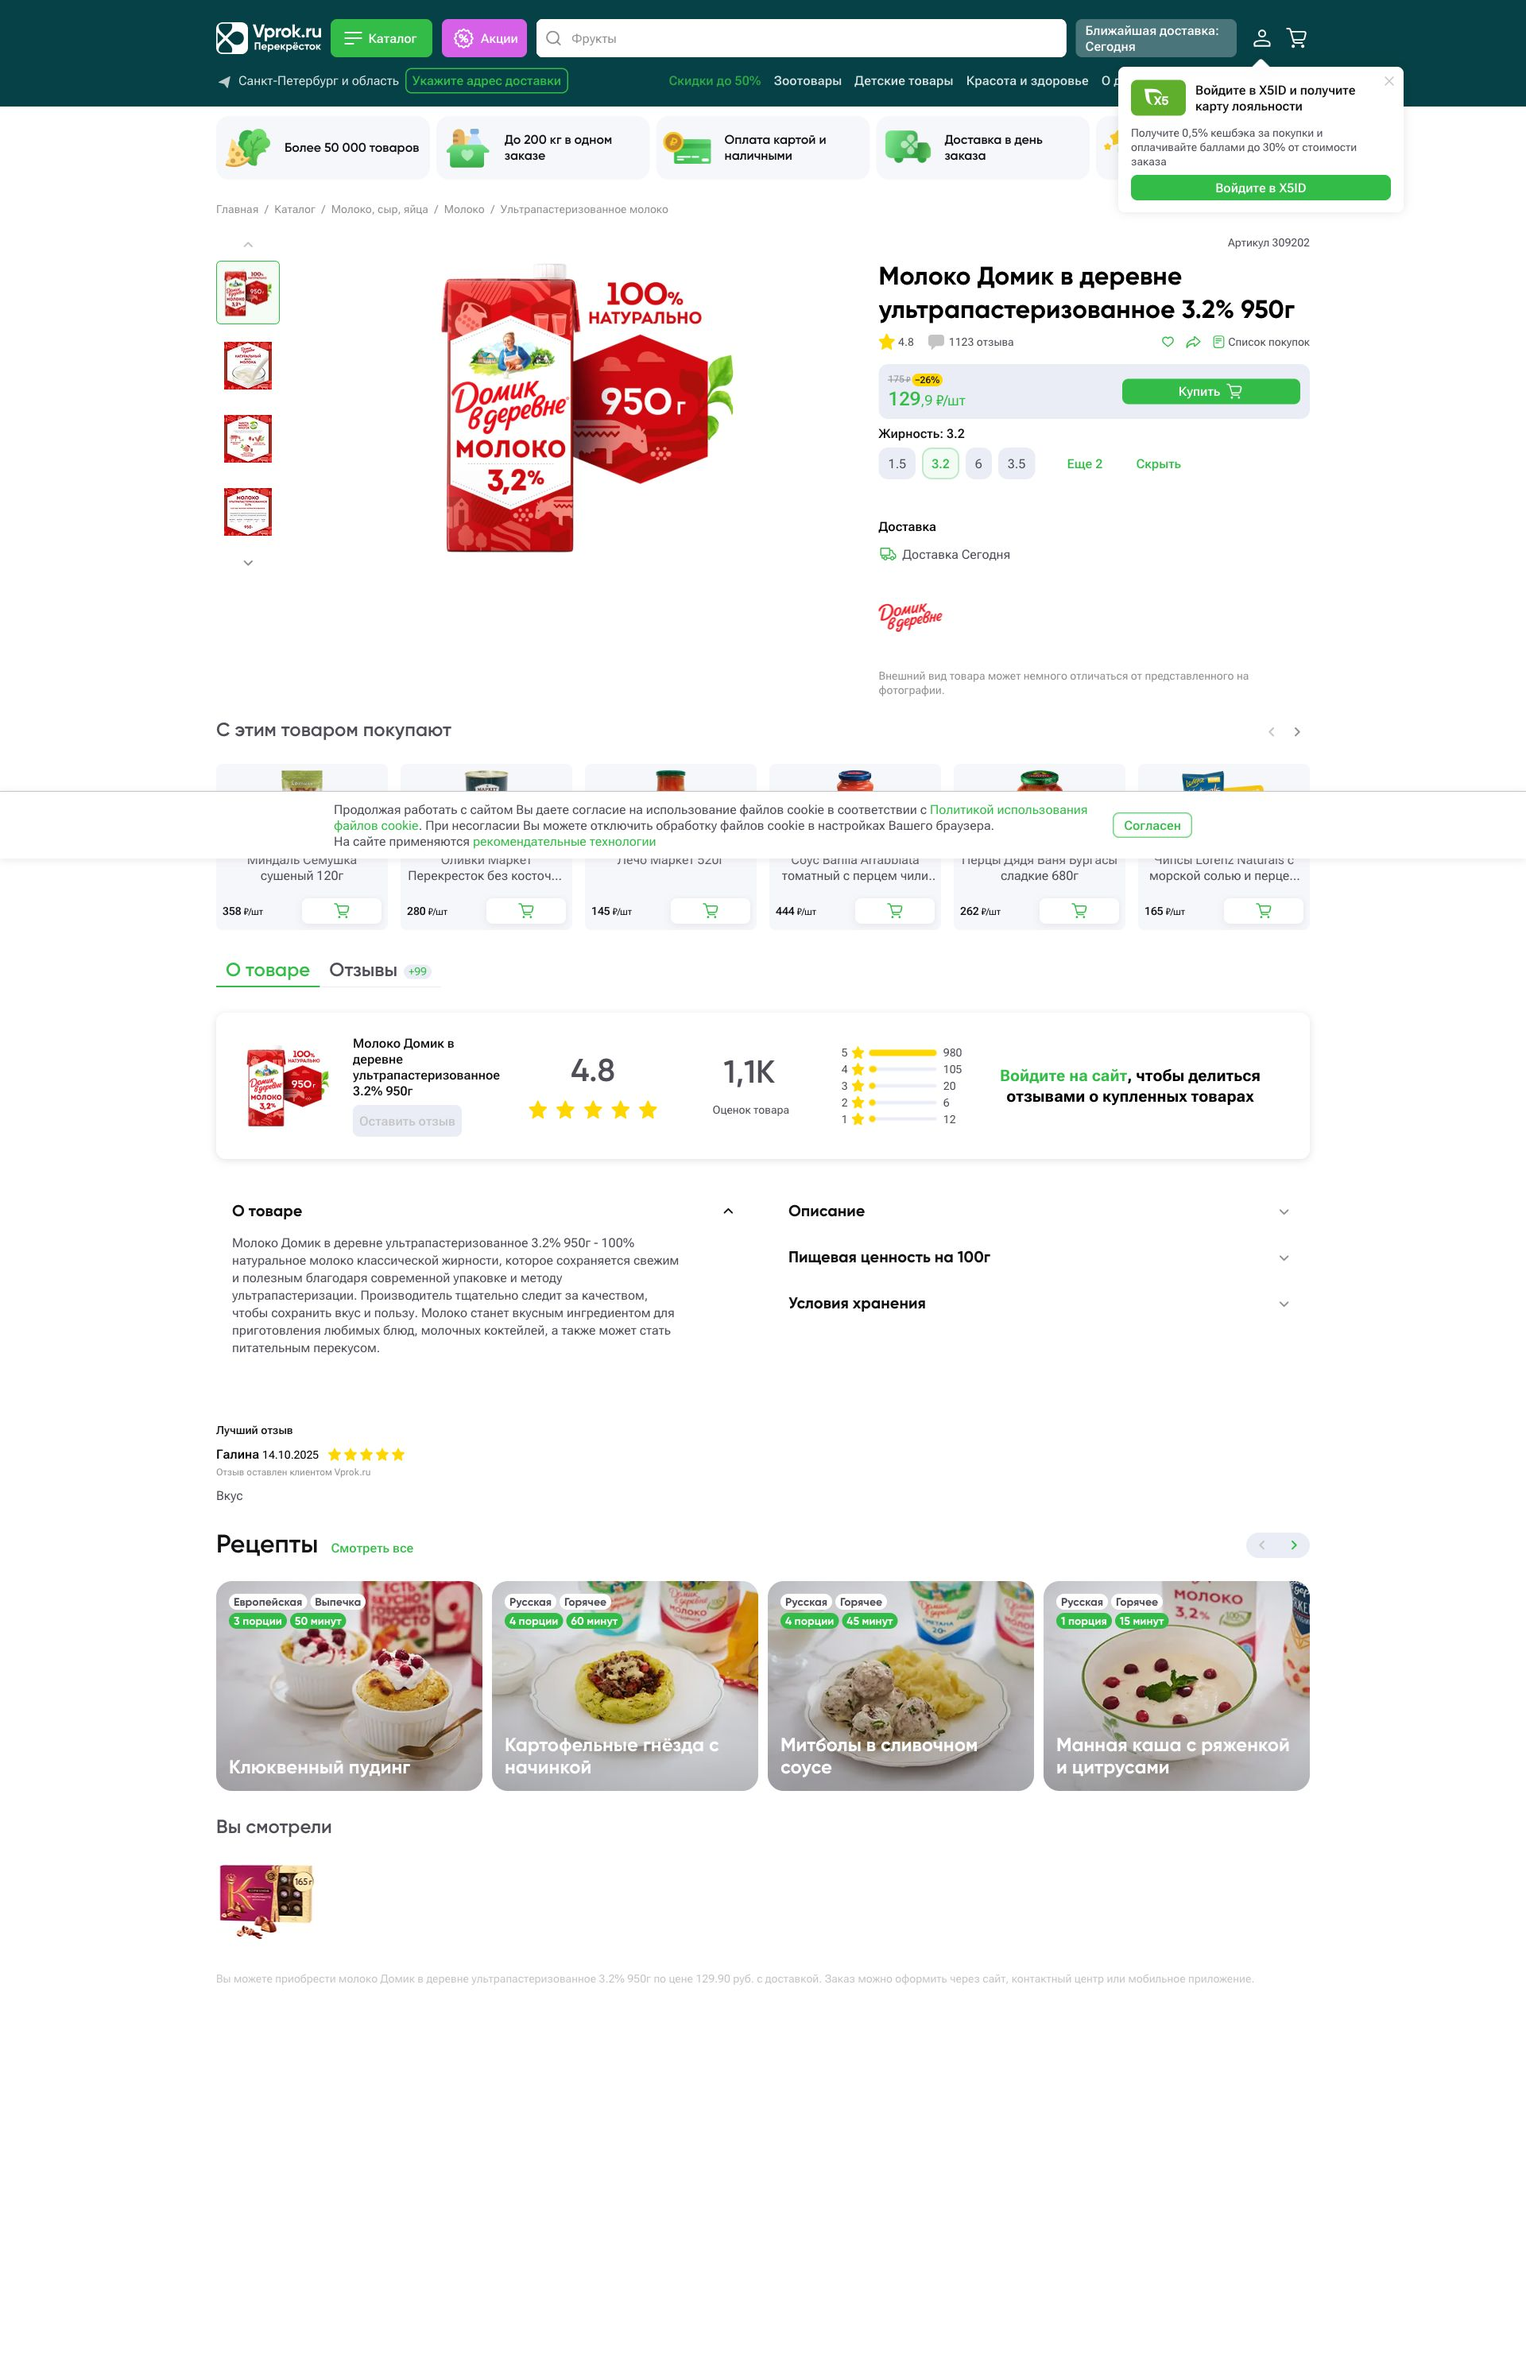
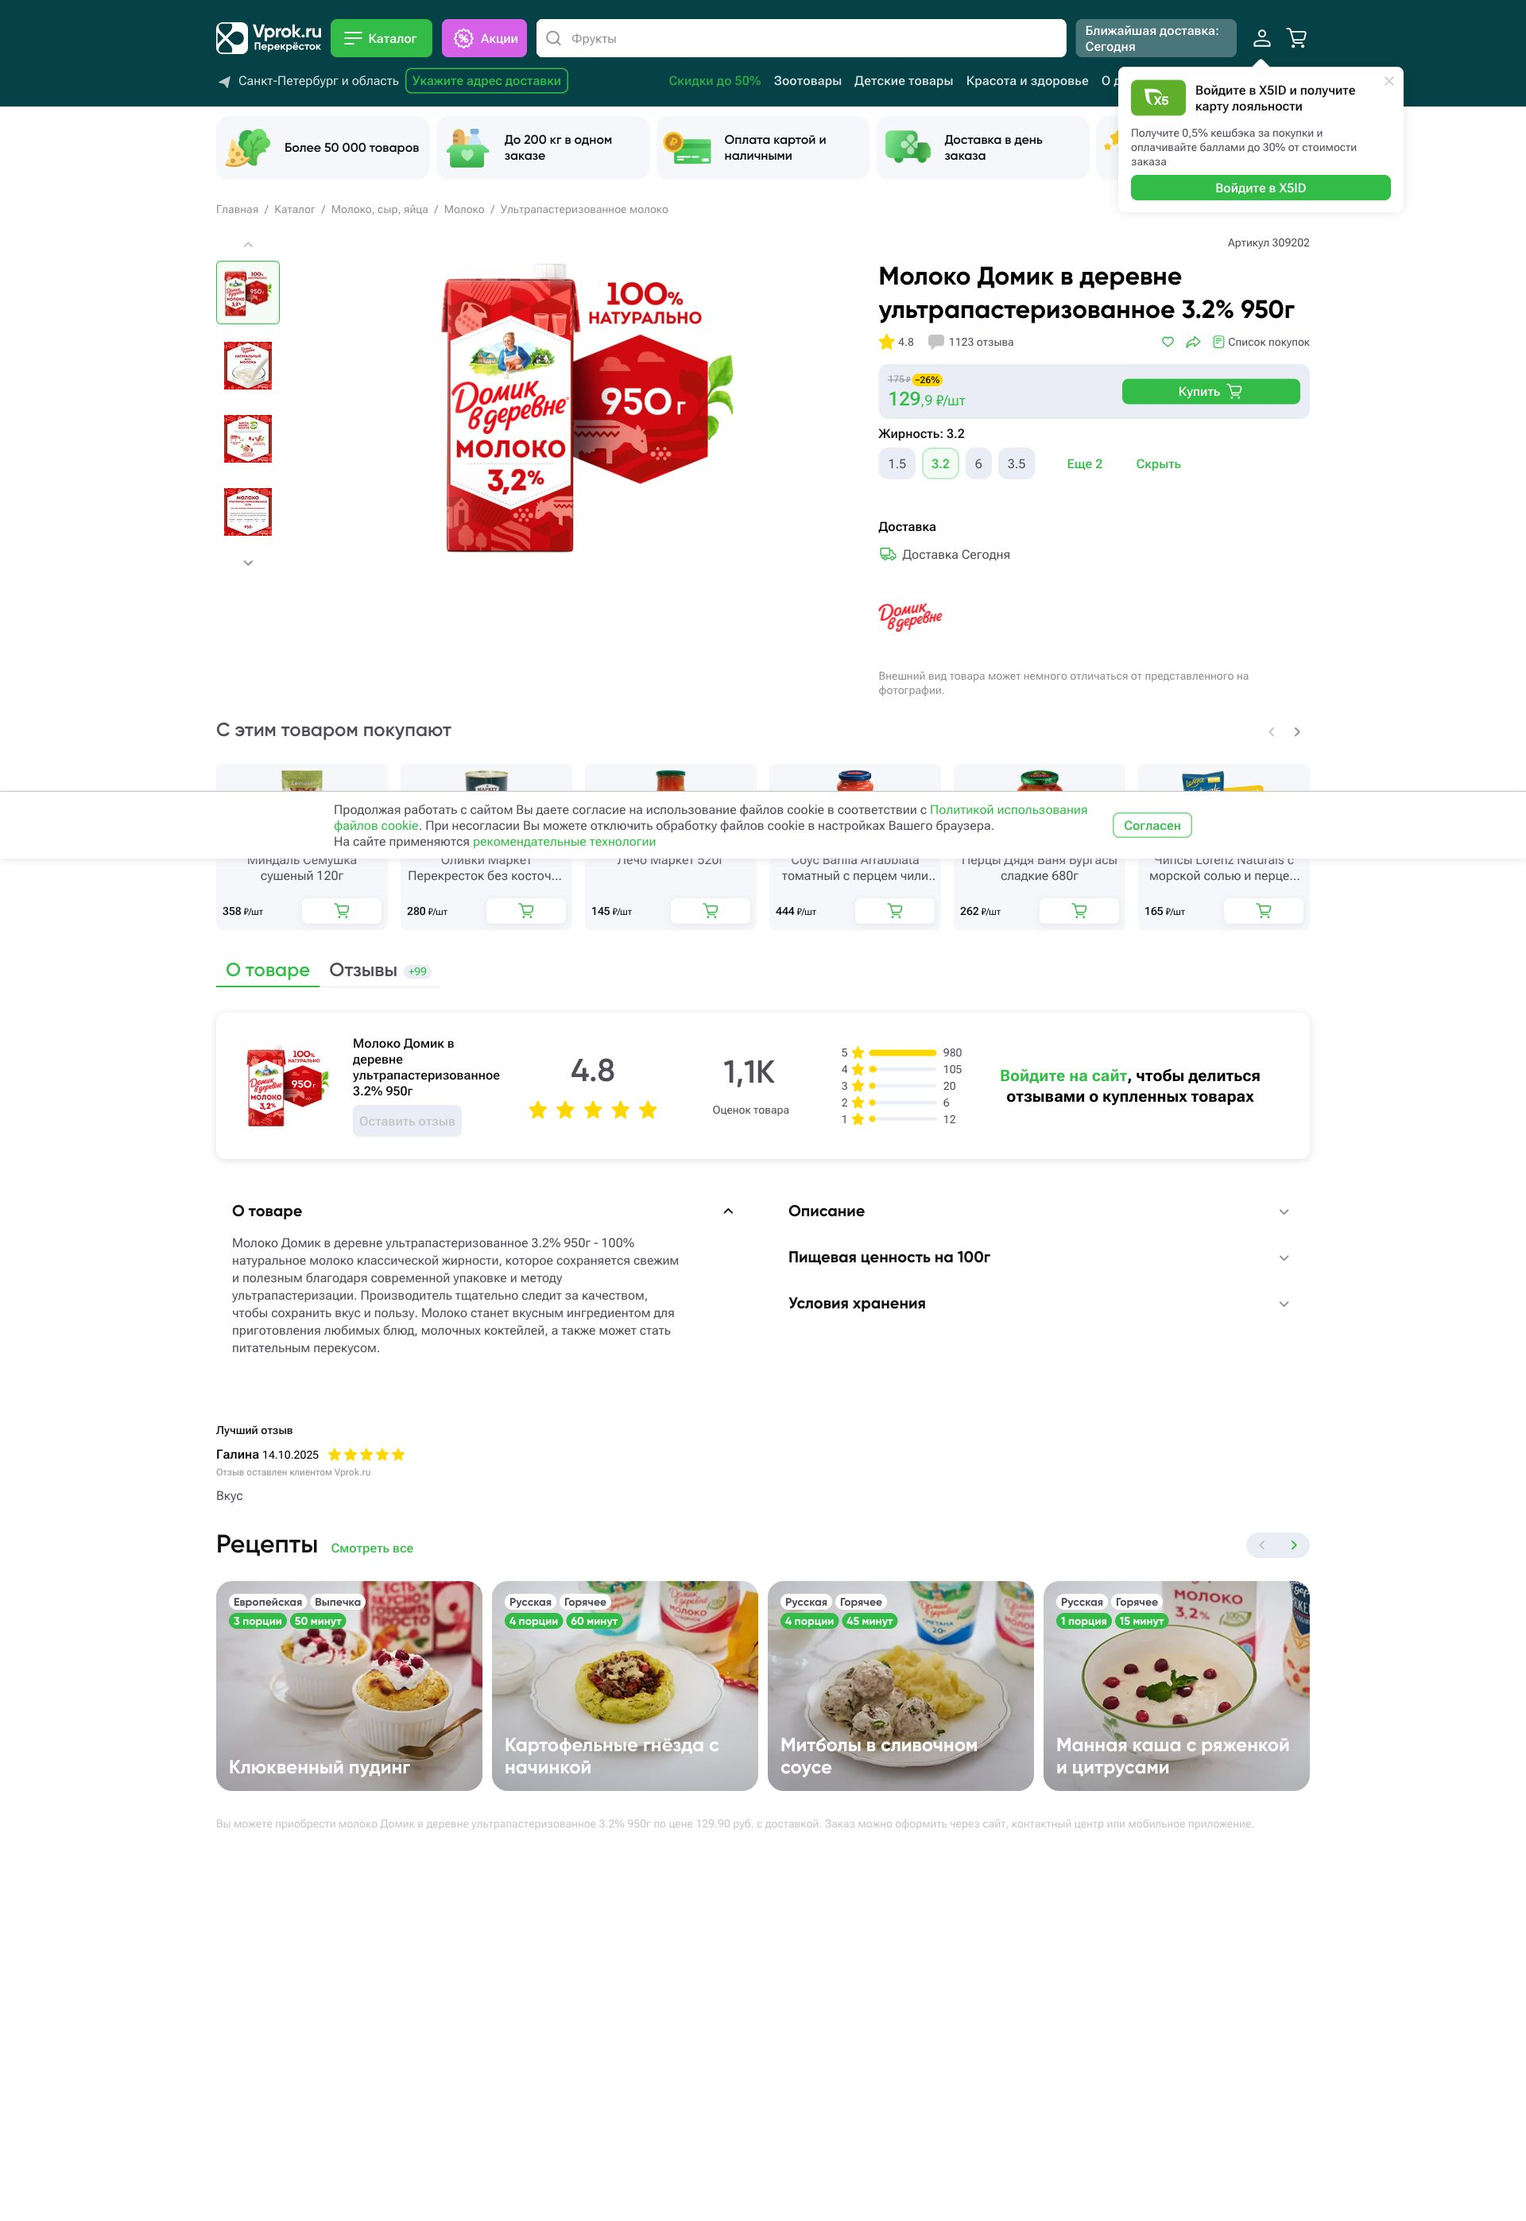
added wait

diff --git a/puppeteer_task_1.js b/puppeteer_task_1.js
@@ -8,7 +8,6 @@ async function takeScreenshot(pageUrl) {
   const browser = await puppeteer.launch({
     headless: false,
     defaultViewport: false,
-    userDataDir: './tmp',
     args: [
       '--no-sandbox',
       '--disable-setuid-sandbox',
@@ -24,6 +23,8 @@ async function takeScreenshot(pageUrl) {
   });
 
   await page.goto(pageUrl);
+
+  await new Promise(resolve => setTimeout(resolve, 5000));
 
   // выбор региона
   const button = await page.$('.Region_region__6OUBn');
